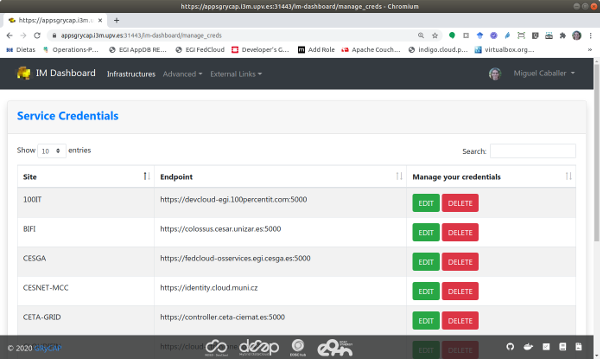
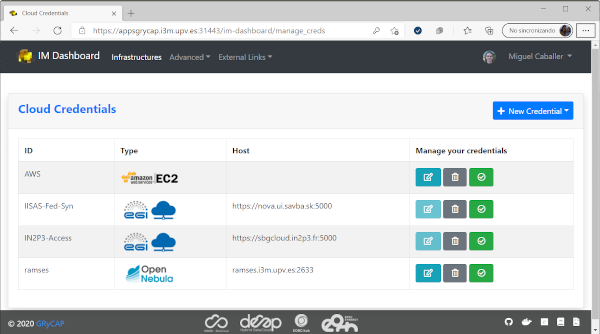
Update dash docs

diff --git a/doc/source/dashboard.rst b/doc/source/dashboard.rst
@@ -230,27 +230,28 @@ The main menu bar is located on top of the pages:
   and an avatar obtained from `Gravatar <https://www.gravatar.com/>`_. In this menu the user can access their 
   "Service Credentials" with the cloud providers or logout the application.
 
-Service Crecentials
+Cloud Crecentials
 ^^^^^^^^^^^^^^^^^^^
 
-This page enable the user to specify the project/VO to be used to access available sites. In the list 
-(:ref:`Fig. 2 <figure_dash_cred_list>`) the user can edit or delete the current value for the selected site.
-This must be done before using a site in case that the user belongs to more that one project in the specific site.
-In this case if not set some erros may appear in the dropdown list of Site images or deploying the VMs.
+This page enable the user to specify the credentials to access any cloud provider it has access to.
+In the list (:ref:`Fig. 2 <figure_dash_cred_list>`) the user can edit, delete and enable/disable the selected
+cloud credential.
 
 .. _figure_dash_cred_list:
 .. figure:: images/dash_cred_list.png
 
-   Fig 2. List of Service Crecentials.
+   Fig 2. List of Cloud Crecentials.
 
-Editing the Credentials will show a modal form (:ref:`Fig. 3 <figure_dash_edit_cred>`) where the user has the 
-ability to select the project/VO from a dropdown list. This list is generated using the information available
-from the sites and the list of VOs the user is member.
+Editing or adding the credentials will show a modal form (:ref:`Fig. 3 <figure_dash_edit_cred>`) where the user has the 
+ability to specify all the parameters needed to access each cloud provider supported. In particular for
+`EGI Cloud Compute sites <https://www.egi.eu/services/cloud-compute/>`_ sites the user only has to select one of
+the VOs he is member and one of sites that supports that VO. These dropdown fields are generated using the information
+available from the sites and the list of VOs the user is member.
 
 .. _figure_dash_edit_cred:
 .. figure:: images/dash_edit_cred.png
 
-   Fig 3. Edit a Crecential.
+   Fig 3. Edit/Add a Crecential.
 
 
 TOSCA Templates
@@ -279,15 +280,19 @@ easier the input values selection.
 
    Fig 5. TOSCA input values.
 
-The final tab will be the "Site Selection" (:ref:`Fig. 6 <figure_dash_site>`).
-In this tab the user has to select, first the VO, then the Site and finally the base image used to deploy the VMs.
-In the case of the image the user has two options, he can select an image from the list of images provided by the
+The final tab will be the "Cloud Provider Selection" (:ref:`Fig. 6 <figure_dash_site>`).
+In this tab the user has to select, first one of the Cloud providers that has been previously added in the
+"Cloud Crecentials" page, then it has to select the base image used to deploy the VMs.
+In case of EGI Cloud Compute sites the user has two options, he can select an image from the list of images provided by the
 `EGI AppDB information system <https://appdb.egi.eu/>`_ or from the list provided directly by the Cloud site.
+Other providers will only show a dropdown list with the available images to use. Only in the case of AWS Cloud provider
+the user has to specify manually the AMI id of the image to use.
+
 
 .. _figure_dash_site:
 .. figure:: images/dash_site.png
 
-   Fig 6. Select deployment VO, Site and Image.
+   Fig 6. Select Cloud Provider and Image.
 
 
 Infrastructures
